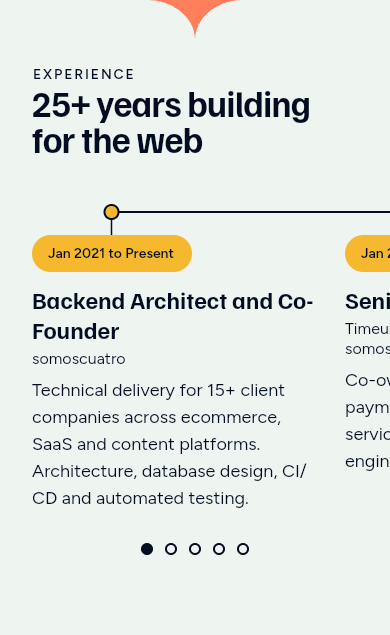
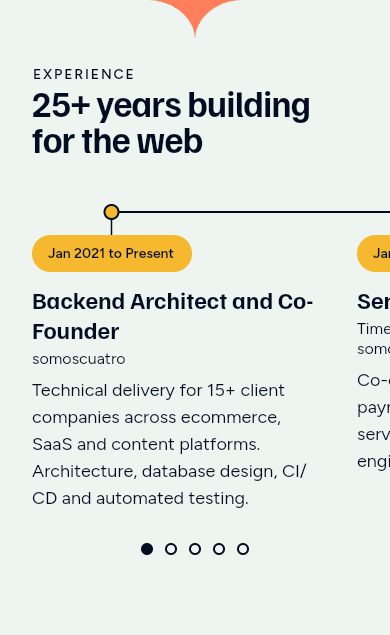
docs: widen the experience slider gap to 32px
Matches jlp-website PR #179: the phone timeline gap is 32, and the
job-row rails reach across it.

Changed region(s): [[0.8615, 0.3591, 1.0, 0.748]]

diff --git a/figma-build-guide.md b/figma-build-guide.md
@@ -68,7 +68,7 @@ Same blocks in the same order, one column, built on `Home V2 / base 390`. Side p
 - **Cards:** every card is 326 wide. Services: slider of two rows and three columns, gap 20 across and 24 down, `slider-dots` 16 below (756 tall). Work: two stacked featured cards (gap 24), then a slider with the four primary cards, "More work" and a slider with the three secondary cards (2480 tall). Recommendations: the featured card, then a slider with the four regular cards, card padding 24, with the author photo (1322 tall). Sliders have gap 20, so 12px of the next card shows, cards of one height and `slider-dots` 16 below. The tracks overflow the container and the block clips them. Chips wrap. Between 390 and 768 there is no frame: two columns from 620 for services, two cards from 680 for the rest (`components/SliderDots/README.md`).
 - **Quote block:** decorative marks 128 wide in the corners, text left-aligned; author and role on separate lines (no leading dot).
 - **How I work:** four steps stacked (gap 32), then the four principles stacked at full width 326 (gap 32); no workshop image. 1999 tall.
-- **Experience:** horizontal timeline (`V2 / job-row`): jobs of 293 (90% of the container), gap 20, left snap, newest first; a 2px line with the nodes over the centre of each date pill; `slider-dots` 16 below. Two jobs in view from 680. 635 tall.
+- **Experience:** horizontal timeline (`V2 / job-row`): jobs of 293 (90% of the container), gap 32, left snap, newest first; a 2px line with the nodes over the centre of each date pill; `slider-dots` 16 below. Two jobs in view from 680. 635 tall.
 - **Stack:** groups stacked, chips wrap.
 - **Contact:** title (h2 mobile) and address (mail mobile) stacked, buttons stacked at full width, text below. No background engraving on phones.
 - **Footer:** one column, 32px apart, side padding 32. The two columns of site links sit side by side, then the column of LinkedIn, GitHub and Download my CV, then the legal links (16px on each side of the bullet), then the copyright. 409px tall.

diff --git a/components/ExperienceBlock/README.md b/components/ExperienceBlock/README.md
@@ -1,1 +1,1 @@
-Mint block with a `section-header` and a list of `job-row`s drawn as a git log. Desktop (xl layout in the 960 container at lg, about 1017 tall) and tablet keep the 176px date column; below `md` it is a horizontal timeline (`V2 / job-row`), gap 20, with `slider-dots` (on-light, 5 at 390) 16 below. Newest job first. One job in view up to 679, 90% of the container wide (293 at 390, so 45px of the next one shows), two from 680, each `(container - 20) / 2`. It snaps to the left edge of the container; the last job stops at the right edge. The behaviour is in `components/SliderDots/README.md`. 635 tall at 390. The previous `experience-block` (root, no folder) is V1. Penpot name `V2 / experience-block`, variants `Breakpoint` xl, lg, md, base.
+Mint block with a `section-header` and a list of `job-row`s drawn as a git log. Desktop (xl layout in the 960 container at lg, about 1017 tall) and tablet keep the 176px date column; below `md` it is a horizontal timeline (`V2 / job-row`), gap 32 (wider than the 20 of the card sliders), with `slider-dots` (on-light, 5 at 390) 16 below. Newest job first. One job in view up to 679, 90% of the container wide (293 at 390, so 33px of the next one shows), two from 680, each `(container - 32) / 2`. It snaps to the left edge of the container; the last job stops at the right edge. The behaviour is in `components/SliderDots/README.md`. 635 tall at 390. The previous `experience-block` (root, no folder) is V1. Penpot name `V2 / experience-block`, variants `Breakpoint` xl, lg, md, base.

diff --git a/components/SliderDots/README.md b/components/SliderDots/README.md
@@ -15,8 +15,8 @@ Space above the row: 16px (Penpot and prototype). The 12px circle sits centered 
 Shared by the four blocks, below `md` (768). From `md` up the blocks are the grids they were.
 
 - Native horizontal scroll with scroll snap (`mandatory`, always stop). Cards snap centered while one is in view, to the left edge while two are. The experience timeline always snaps left, and its jobs are 90% of the container while one is in view. For the cards, at these widths, both place the card on the container's left edge.
-- The track bleeds to both screen edges and its first card starts at the container (32px). Gap between columns 20 (`space-5`).
-- One card in view: the card is as wide as the container, 326 at 390, so 12px of the next one shows. Two in view: `(container - 20) / 2`.
+- The track bleeds to both screen edges and its first card starts at the container (32px). Gap between columns 20 (`space-5`); the experience timeline uses 32 (`space-8`).
+- One card in view: the card is as wide as the container, 326 at 390, so 12px of the next one shows. Two in view: `(container - gap) / 2`.
 - Breaks: services shows two columns from 620, the other sliders two cards from 680.
 - All cards of a slider share the height of the tallest (experience jobs have no card, so they do not stretch). The last part stays pinned to the bottom.
 - No scrollbar. Prefers-reduced-motion: a dot jumps instead of scrolling.

diff --git a/components/JobRow/README.md b/components/JobRow/README.md
@@ -12,7 +12,7 @@ A stop of the horizontal timeline. Same text styles as above, in one column: gra
 
 - Graph: 30px tall, over the pill. A 2px ink line with its centre 7px from the top, the 14px node on it, and a 1.5px connector from the node to the pill (16px).
 - Node and connector are centered over the date pill, whatever its width. The pill is as wide as its text plus padding and starts at the left edge of the job.
-- The line is continuous across the 20px gaps. It starts at the first node and stops at the last one.
+- The line is continuous across the 32px gaps: each rail reaches into the gap up to the next job. It starts at the first node and stops at the last one.
 - The newest job comes first and its node is saffron; the others are ink.
 - Jobs have no box. Their height follows the content, top-aligned.
 
